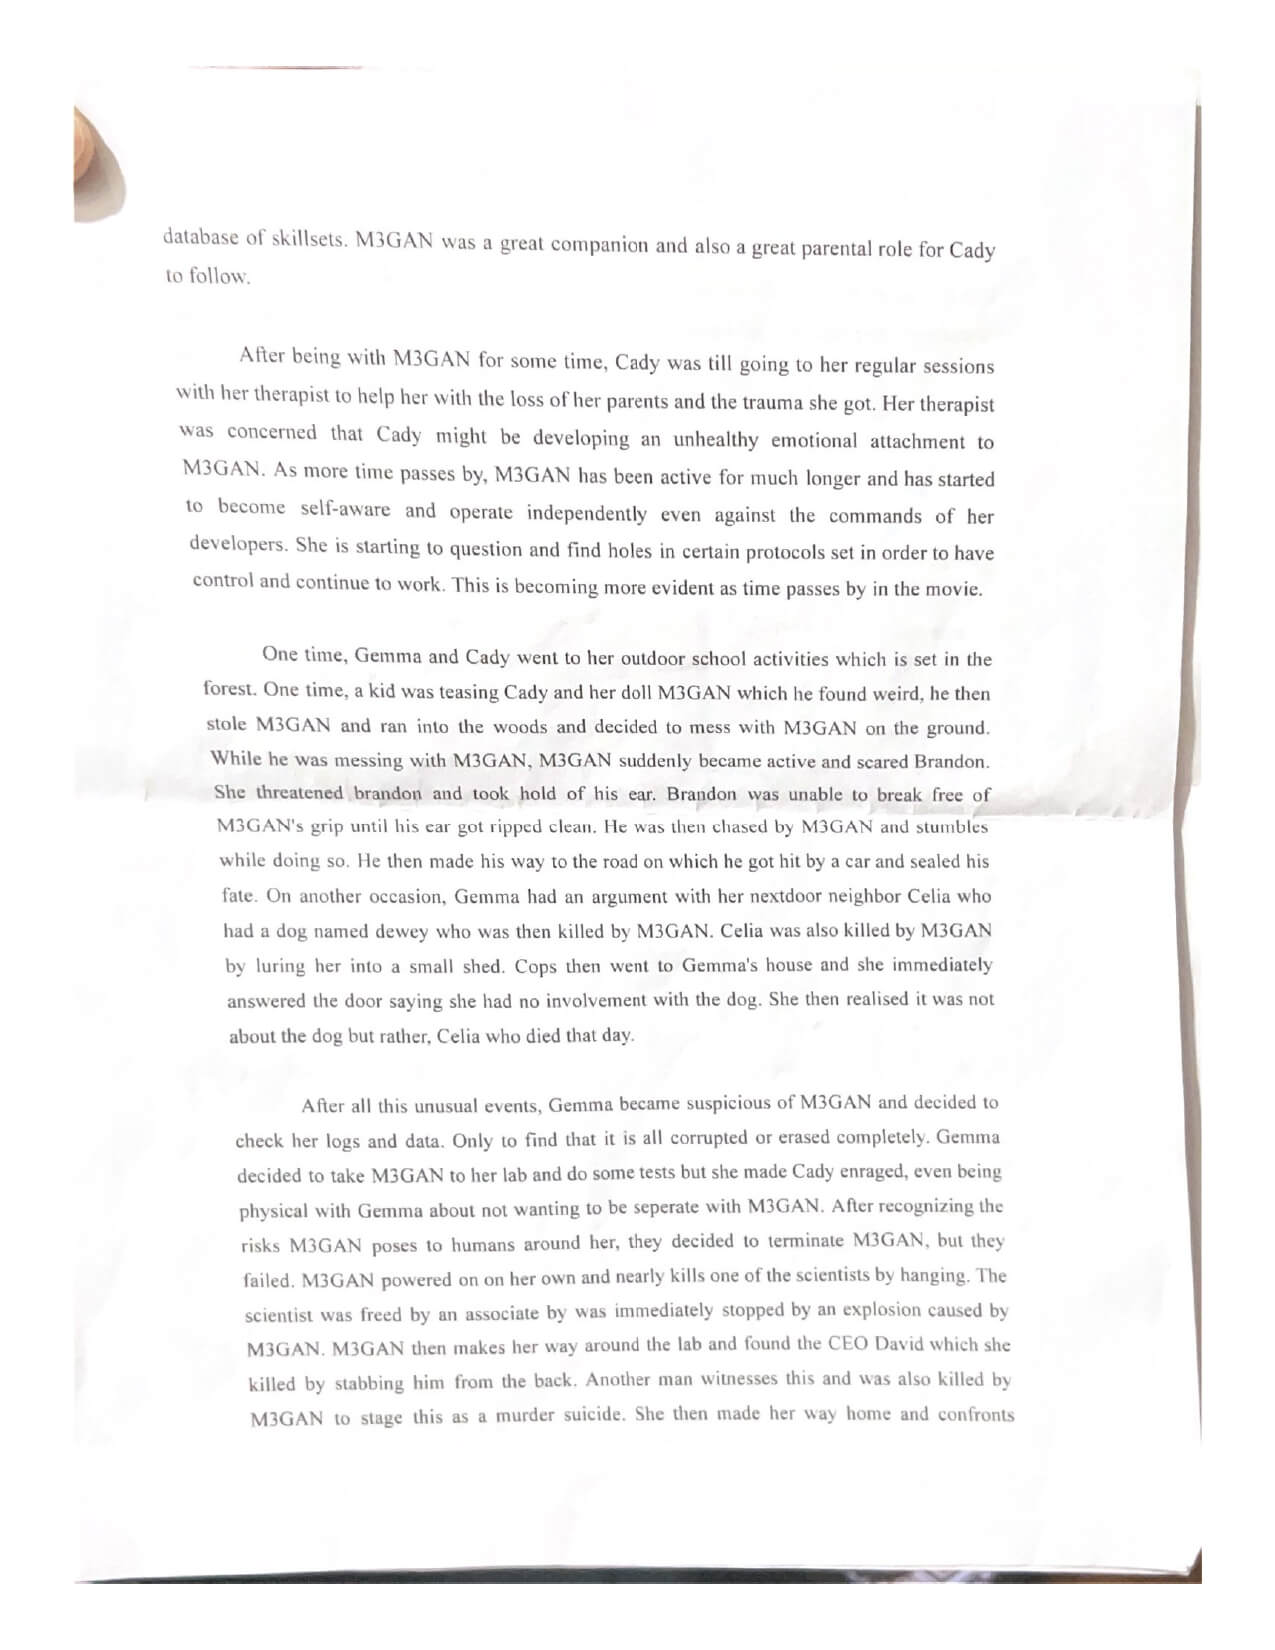
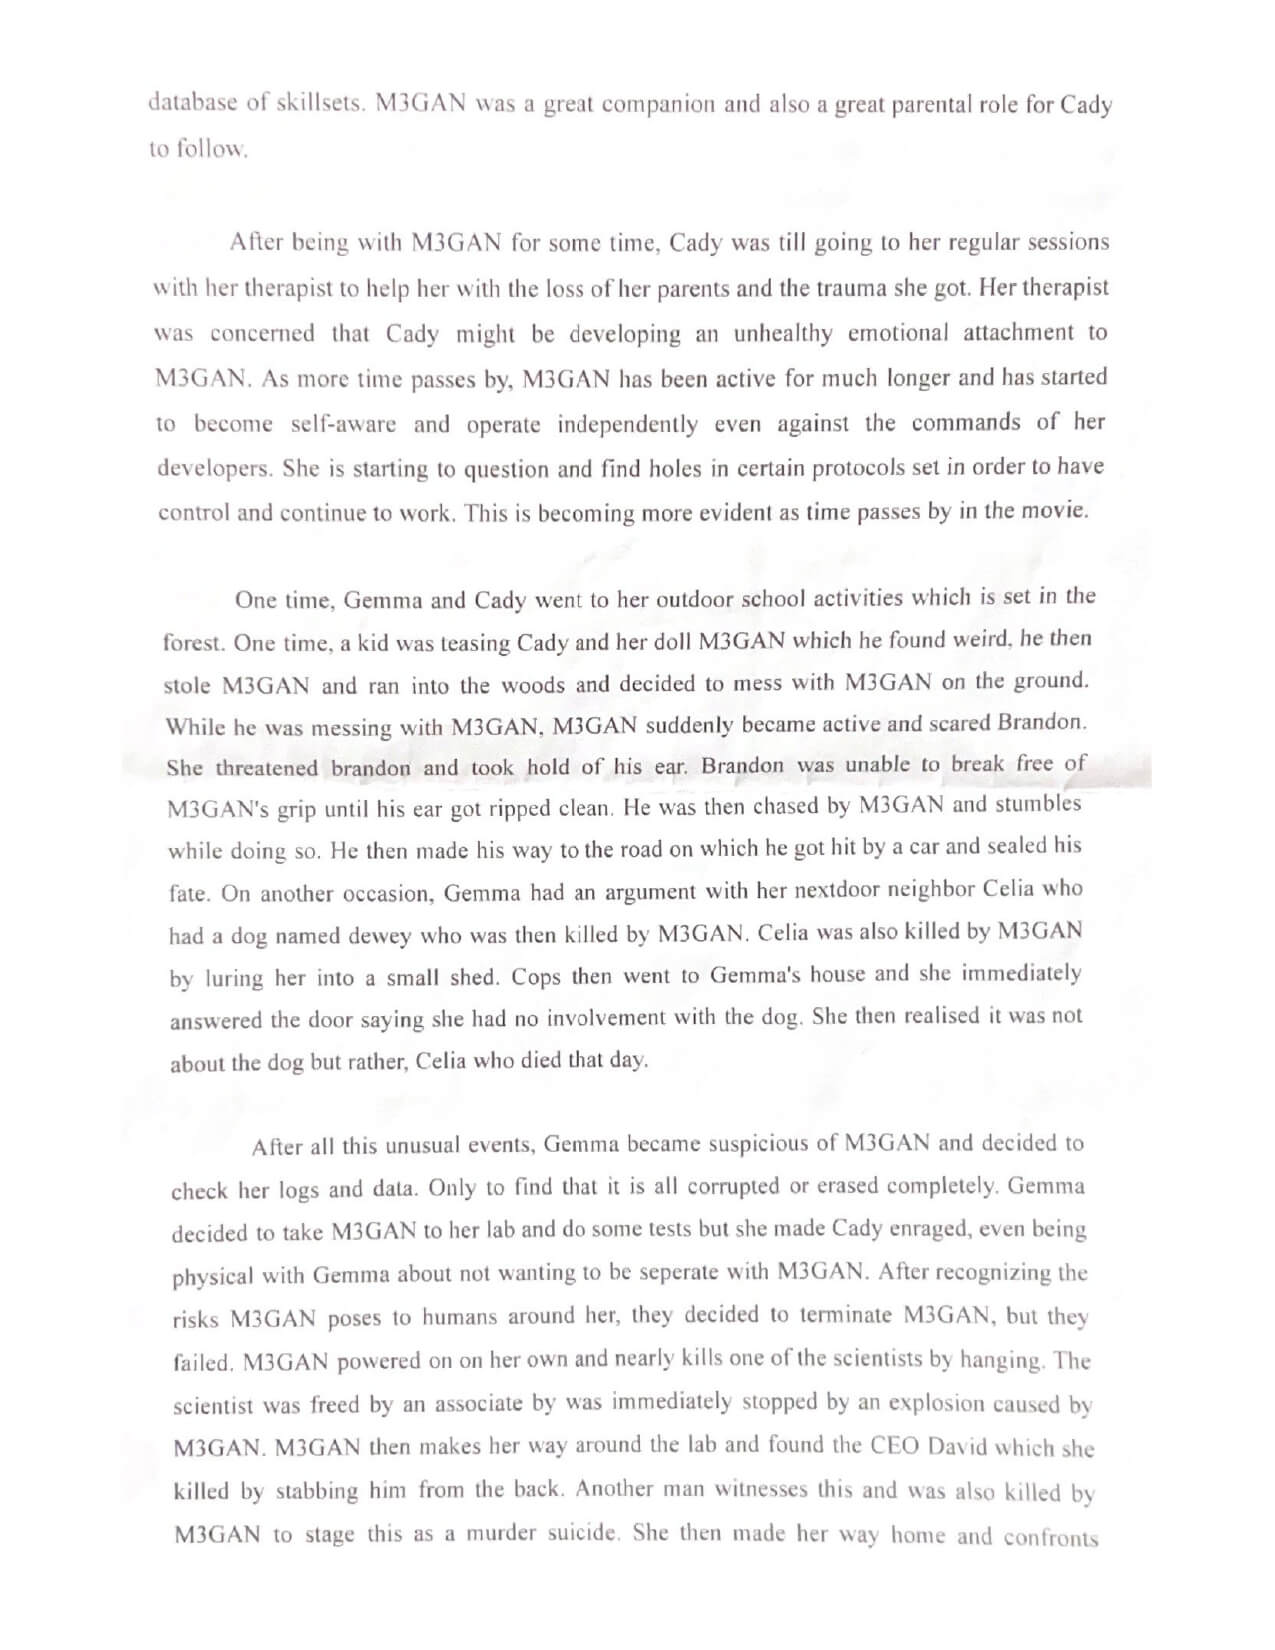
Remove film review excess image

diff --git a/film-review.html b/film-review.html
@@ -108,11 +108,7 @@
                   <div class="swiper-slide">
                     <img src="assets/img/Film-Review_page-0004.jpg" alt="">
                   </div>
-
-                  <div class="swiper-slide">
-                    <img src="assets/img/Film-Review_page-0005.jpg" alt="">
-                  </div>
-
+                
               </div>
               <div class="swiper-pagination"></div>
             </div>
